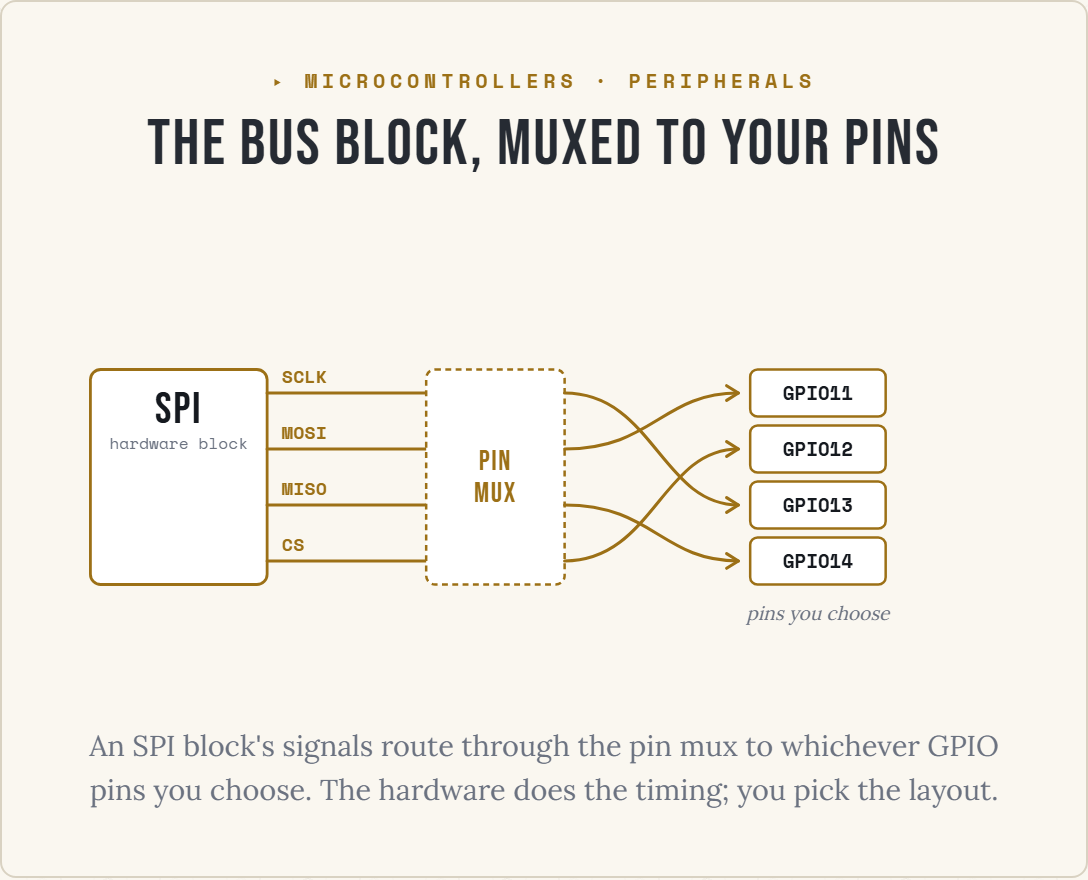
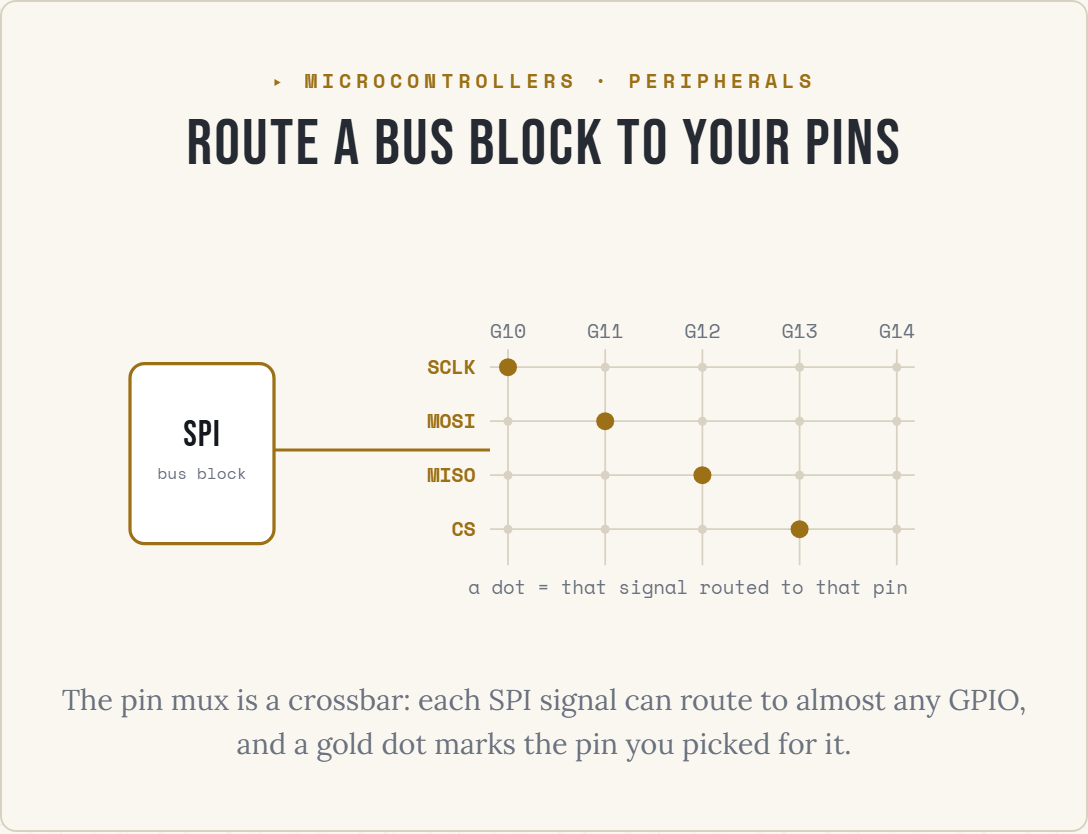
redo(diagrams): mcu-peripheral-mux — the mux as a crossbar (9/11)
Rebuild to the house bar: the pin mux drawn as a crossbar. Rows are the SPI
signals (SCLK, MOSI, MISO, CS), columns are GPIO pins, and a gold dot at a
crossing means that signal is routed to that pin; the faint dots are the pins it
could have gone to instead. That is what "route to almost any GPIO" means. Token
color, both themes, landscape 1.32.

diff --git a/src/components/guide/diagrams/McuPeripheralMux.tsx b/src/components/guide/diagrams/McuPeripheralMux.tsx
@@ -1,108 +1,87 @@
-// On-chip peripheral + pin mux (v2). Microcontrollers & ESP32 cluster.
+// On-chip peripheral + pin mux, as a crossbar (diagram-standards v2).
+// MCU cluster, diagram 9. Owner-picked M2.
 //
-// Teaching point: a bus like SPI is a hardware block inside the chip. Its signals
-// (SCLK, MOSI, MISO, CS) route through a pin mux out to whichever GPIO pins you
-// choose, so the hardware does the timing and you pick the layout.
+// Teaching point (lesson 8): a bus like SPI is a hardware block inside the chip.
+// The pin mux routes its signals (SCLK, MOSI, MISO, CS) to almost any GPIO you
+// choose. Drawn as a crossbar: rows are the signals, columns are pins, and a gold
+// dot at a crossing means that signal is routed to that pin. The faint dots are
+// the pins each signal could have gone to instead, which is what "any GPIO" means.
 //
-// Landscape desktop/print: SPI block on the left, its four signals through a PIN
-// MUX, cross-routed to chosen GPIO pins on the right. REFLOWS on a phone to a
-// summary. Token-only color.
+// Grid rendered by nested maps. Color via CSS classes; mono for labels. Header +
+// caption from the DiagramFrame.
 import { DiagramFrame } from "./DiagramFrame";
 
-const SIG = [
-  { n: "SCLK", y: 108 },
-  { n: "MOSI", y: 146 },
-  { n: "MISO", y: 184 },
-  { n: "CS", y: 222 },
-];
-// cross-routing: signal index -> GPIO row y (deliberately reordered = "you pick")
-const MAP = [184, 108, 222, 146];
-const GPIO = ["GPIO11", "GPIO12", "GPIO13", "GPIO14"];
-const MUX_L = 250, MUX_R = 344, GP_X = 470;
+const ROWS = ["SCLK", "MOSI", "MISO", "CS"];
+const COLS = ["G10", "G11", "G12", "G13", "G14"];
+const CHOSEN = [0, 1, 2, 3]; // ROWS[i] routed to COLS[CHOSEN[i]]
+const GX0 = 250, GY0 = 64, CW = 54, RH = 30;
+const colX = (j: number) => GX0 + j * CW;
+const rowY = (i: number) => GY0 + i * RH + 10;
 
 export function McuPeripheralMux({ caption }: { caption?: string }) {
   return (
     <DiagramFrame
       eyebrow="MICROCONTROLLERS · PERIPHERALS"
       tone="gold"
-      title="The bus block, muxed to your pins"
-      ariaLabel="An SPI hardware peripheral inside the chip drives four signals: SCLK the clock, MOSI and MISO the data lines, and CS the chip select. All four run into a pin mux, a routing block, which sends each one out to a GPIO pin of your choosing. The wires cross on the way out to show that any signal can go to any free pin: here they land on GPIO11 through GPIO14. The hardware handles the exact timing; you pick the pins."
+      title="Route a bus block to your pins"
+      ariaLabel="The pin mux drawn as a crossbar. On the left is the SPI hardware bus block. On the right is a grid whose rows are the SPI signals (the clock SCLK, data out MOSI, data in MISO, and chip-select CS) and whose columns are GPIO pins. A gold dot at a row-and-column crossing means that signal is routed to that pin; here SCLK goes to GPIO10, MOSI to GPIO11, MISO to GPIO12, and CS to GPIO13. The faint dots are the other pins each signal could have been routed to instead."
       caption={caption}
-      defaultCaption="An SPI block's signals route through the pin mux to whichever GPIO pins you choose. The hardware does the timing; you pick the layout."
+      defaultCaption="The pin mux is a crossbar: each SPI signal can route to almost any GPIO, and a gold dot marks the pin you picked for it."
     >
       <style>{CSS}</style>
+      <div className="mx">
+        <svg className="mx-svg" viewBox="0 0 540 220" aria-hidden="true">
+          {/* SPI block */}
+          <rect x="40" y="72" width="80" height="100" rx="8" className="mx-block" />
+          <text x="80" y="118" textAnchor="middle" className="mx-block-t">SPI</text>
+          <text x="80" y="136" textAnchor="middle" className="mx-block-s">bus block</text>
+          <line x1="120" y1="120" x2={GX0 - 10} y2="120" className="mx-conn" />
 
-      <div className="pm">
-        {/* desktop / print */}
-        <svg className="pm-scene" viewBox="0 0 660 300" aria-hidden="true">
-          {/* SPI peripheral block */}
-          <rect className="pm-blk" x={22} y={92} width={120} height={146} rx={7} />
-          <text className="pm-blkt" x={82} y={128} textAnchor="middle">SPI</text>
-          <text className="pm-blks" x={82} y={146} textAnchor="middle">hardware block</text>
-          {SIG.map((s) => (
-            <g key={s.n}>
-              <line className="pm-w" x1={142} y1={s.y} x2={MUX_L} y2={s.y} />
-              <text className="pm-sig" x={152} y={s.y - 7} textAnchor="start">{s.n}</text>
+          {/* column headers + vertical lines */}
+          {COLS.map((c, j) => (
+            <g key={c}>
+              <text x={colX(j)} y={GY0 - 6} textAnchor="middle" className="mx-col">{c}</text>
+              <line x1={colX(j)} y1={GY0} x2={colX(j)} y2={GY0 + ROWS.length * RH} className="mx-grid" />
             </g>
           ))}
 
-          {/* pin mux */}
-          <rect className="pm-mux" x={MUX_L} y={92} width={MUX_R - MUX_L} height={146} rx={6} />
-          <text className="pm-muxt" x={(MUX_L + MUX_R) / 2} y={160} textAnchor="middle">PIN</text>
-          <text className="pm-muxt" x={(MUX_L + MUX_R) / 2} y={182} textAnchor="middle">MUX</text>
+          {/* rows: label, line, and the dots */}
+          {ROWS.map((r, i) => (
+            <g key={r}>
+              <text x={GX0 - 18} y={rowY(i) + 4} textAnchor="end" className="mx-row">{r}</text>
+              <line x1={GX0 - 10} y1={rowY(i)} x2={colX(COLS.length - 1) + 10} y2={rowY(i)} className="mx-grid" />
+              {COLS.map((_, j) => (
+                <circle key={j} cx={colX(j)} cy={rowY(i)} r={CHOSEN[i] === j ? 5 : 2.5}
+                  className={CHOSEN[i] === j ? "mx-dot" : "mx-dot-faint"} />
+              ))}
+            </g>
+          ))}
 
-          {/* cross-routed wires out to chosen GPIO */}
-          {SIG.map((s, i) => {
-            const gy = MAP[i];
-            return (
-              <g key={s.n}>
-                <path className="pm-w" fill="none" d={`M${MUX_R},${s.y} C${MUX_R + 60},${s.y} ${GP_X - 60},${gy} ${GP_X - 8},${gy}`} />
-                <path className="pm-w" fill="none" d={`M${GP_X - 16},${gy - 5} L${GP_X - 8},${gy} L${GP_X - 16},${gy + 5}`} />
-              </g>
-            );
-          })}
-
-          {/* GPIO pins */}
-          {GPIO.map((g, i) => {
-            const y = SIG[i].y;
-            return (
-              <g key={g}>
-                <rect className="pm-gp" x={GP_X} y={y - 16} width={92} height={32} rx={5} />
-                <text className="pm-gpt" x={GP_X + 46} y={y + 5} textAnchor="middle">{g}</text>
-              </g>
-            );
-          })}
-          <text className="pm-note" x={GP_X + 46} y={262} textAnchor="middle">pins you choose</text>
+          <text x={GX0 + 100} y="200" textAnchor="middle" className="mx-note">a dot = that signal routed to that pin</text>
         </svg>
-
-        {/* phone reflow */}
-        <div className="pm-phone" aria-hidden="true">
-          <p className="pm-psum">The <b>SPI</b> block's signals (SCLK, MOSI, MISO, CS) run through the <b>pin mux</b> out to GPIO pins you choose.</p>
-          <p className="pm-pnote">The hardware clocks the bits with exact timing; you just pick which pins the bus lands on.</p>
-        </div>
       </div>
     </DiagramFrame>
   );
 }
 
 const CSS = `
-.pm{display:block;}
-.pm-scene{display:block;width:100%;height:auto;overflow:visible;}
-.pm-blk{fill:var(--color-navy-dark,#1a1a2e);stroke:var(--color-command-gold,#c8963e);stroke-width:1.9;}
-.pm-mux{fill:var(--color-navy-dark,#1a1a2e);stroke:var(--color-command-gold,#c8963e);stroke-width:1.7;stroke-dasharray:4 3;}
-.pm-gp{fill:var(--color-navy-dark,#1a1a2e);stroke:var(--color-command-gold,#c8963e);stroke-width:1.7;}
-.pm-w{fill:none;stroke:var(--color-command-gold,#c8963e);stroke-width:2.1;stroke-linecap:round;stroke-linejoin:round;}
-.pm-blkt{font-family:var(--font-display,"Bebas Neue",sans-serif);font-size:30px;letter-spacing:.04em;fill:var(--color-title,#f1ece0);}
-.pm-blks{font-family:var(--font-mono,"Space Mono",monospace);font-weight:400;font-size:11px;fill:var(--color-muted,#aaa);}
-.pm-sig{font-family:var(--font-mono,"Space Mono",monospace);font-weight:700;font-size:12px;letter-spacing:.03em;fill:var(--color-command-gold,#c8963e);}
-.pm-muxt{font-family:var(--font-display,"Bebas Neue",sans-serif);font-size:19px;letter-spacing:.06em;fill:var(--color-command-gold,#c8963e);}
-.pm-gpt{font-family:var(--font-mono,"Space Mono",monospace);font-weight:700;font-size:13px;fill:var(--color-title,#f1ece0);}
-.pm-note{font-family:var(--font-serif,"Lora",serif);font-style:italic;font-size:13px;fill:var(--color-muted,#aaa);}
+.mx{max-width:36rem;margin-inline:auto;}
+.mx-svg{display:block;width:100%;height:auto;overflow:visible;}
+.mx-block{fill:var(--color-navy-dark,#1a1a2e);stroke:var(--color-command-gold,#c8963e);stroke-width:1.8;}
+.mx-block-t{font-family:var(--font-display,"Bebas Neue",sans-serif);font-size:20px;letter-spacing:.03em;fill:var(--color-title,#f1ece0);}
+.mx-block-s{font-family:var(--font-mono,"Space Mono",monospace);font-size:9px;fill:var(--color-muted,#aaaaaa);}
+.mx-conn{stroke:var(--color-command-gold,#c8963e);stroke-width:1.8;}
+.mx-grid{stroke:var(--color-panel-border,#3a3f50);stroke-width:1;}
+.mx-col{font-family:var(--font-mono,"Space Mono",monospace);font-size:11px;fill:var(--color-muted,#aaaaaa);}
+.mx-row{font-family:var(--font-mono,"Space Mono",monospace);font-weight:700;font-size:11px;fill:var(--color-command-gold,#c8963e);}
+.mx-dot{fill:var(--color-command-gold,#c8963e);}
+.mx-dot-faint{fill:var(--color-panel-border,#3a3f50);}
+.mx-note{font-family:var(--font-mono,"Space Mono",monospace);font-size:10.5px;fill:var(--color-muted,#aaaaaa);}
 
-/* phone reflow */
-.pm-phone{display:none;}
-@media (max-width:520px){ .pm-scene{display:none;} .pm-phone{display:block;} }
-.pm-psum{margin:0 0 .5rem;font-family:var(--font-serif,"Lora",serif);font-size:.95rem;line-height:1.5;color:var(--color-text,#e8e8e8);}
-.pm-psum b{font-family:var(--font-mono,"Space Mono",monospace);font-weight:700;color:var(--color-command-gold,#c8963e);}
-.pm-pnote{margin:0;font-family:var(--font-serif,"Lora",serif);font-size:.9rem;color:var(--color-muted,#aaa);}
+/* Tier-B reveal off the frame's armed/in contract (final state under reduced-motion). */
+.dgfrm.armed .mx-svg{opacity:0;transform:translateY(6px);}
+.dgfrm.armed.in .mx-svg{opacity:1;transform:none;transition:opacity .6s ease,transform .6s cubic-bezier(.2,.7,.2,1);}
+@media (prefers-reduced-motion:reduce){
+  .dgfrm .mx-svg{opacity:1!important;transform:none!important;transition:none!important;}
+}
 `;
